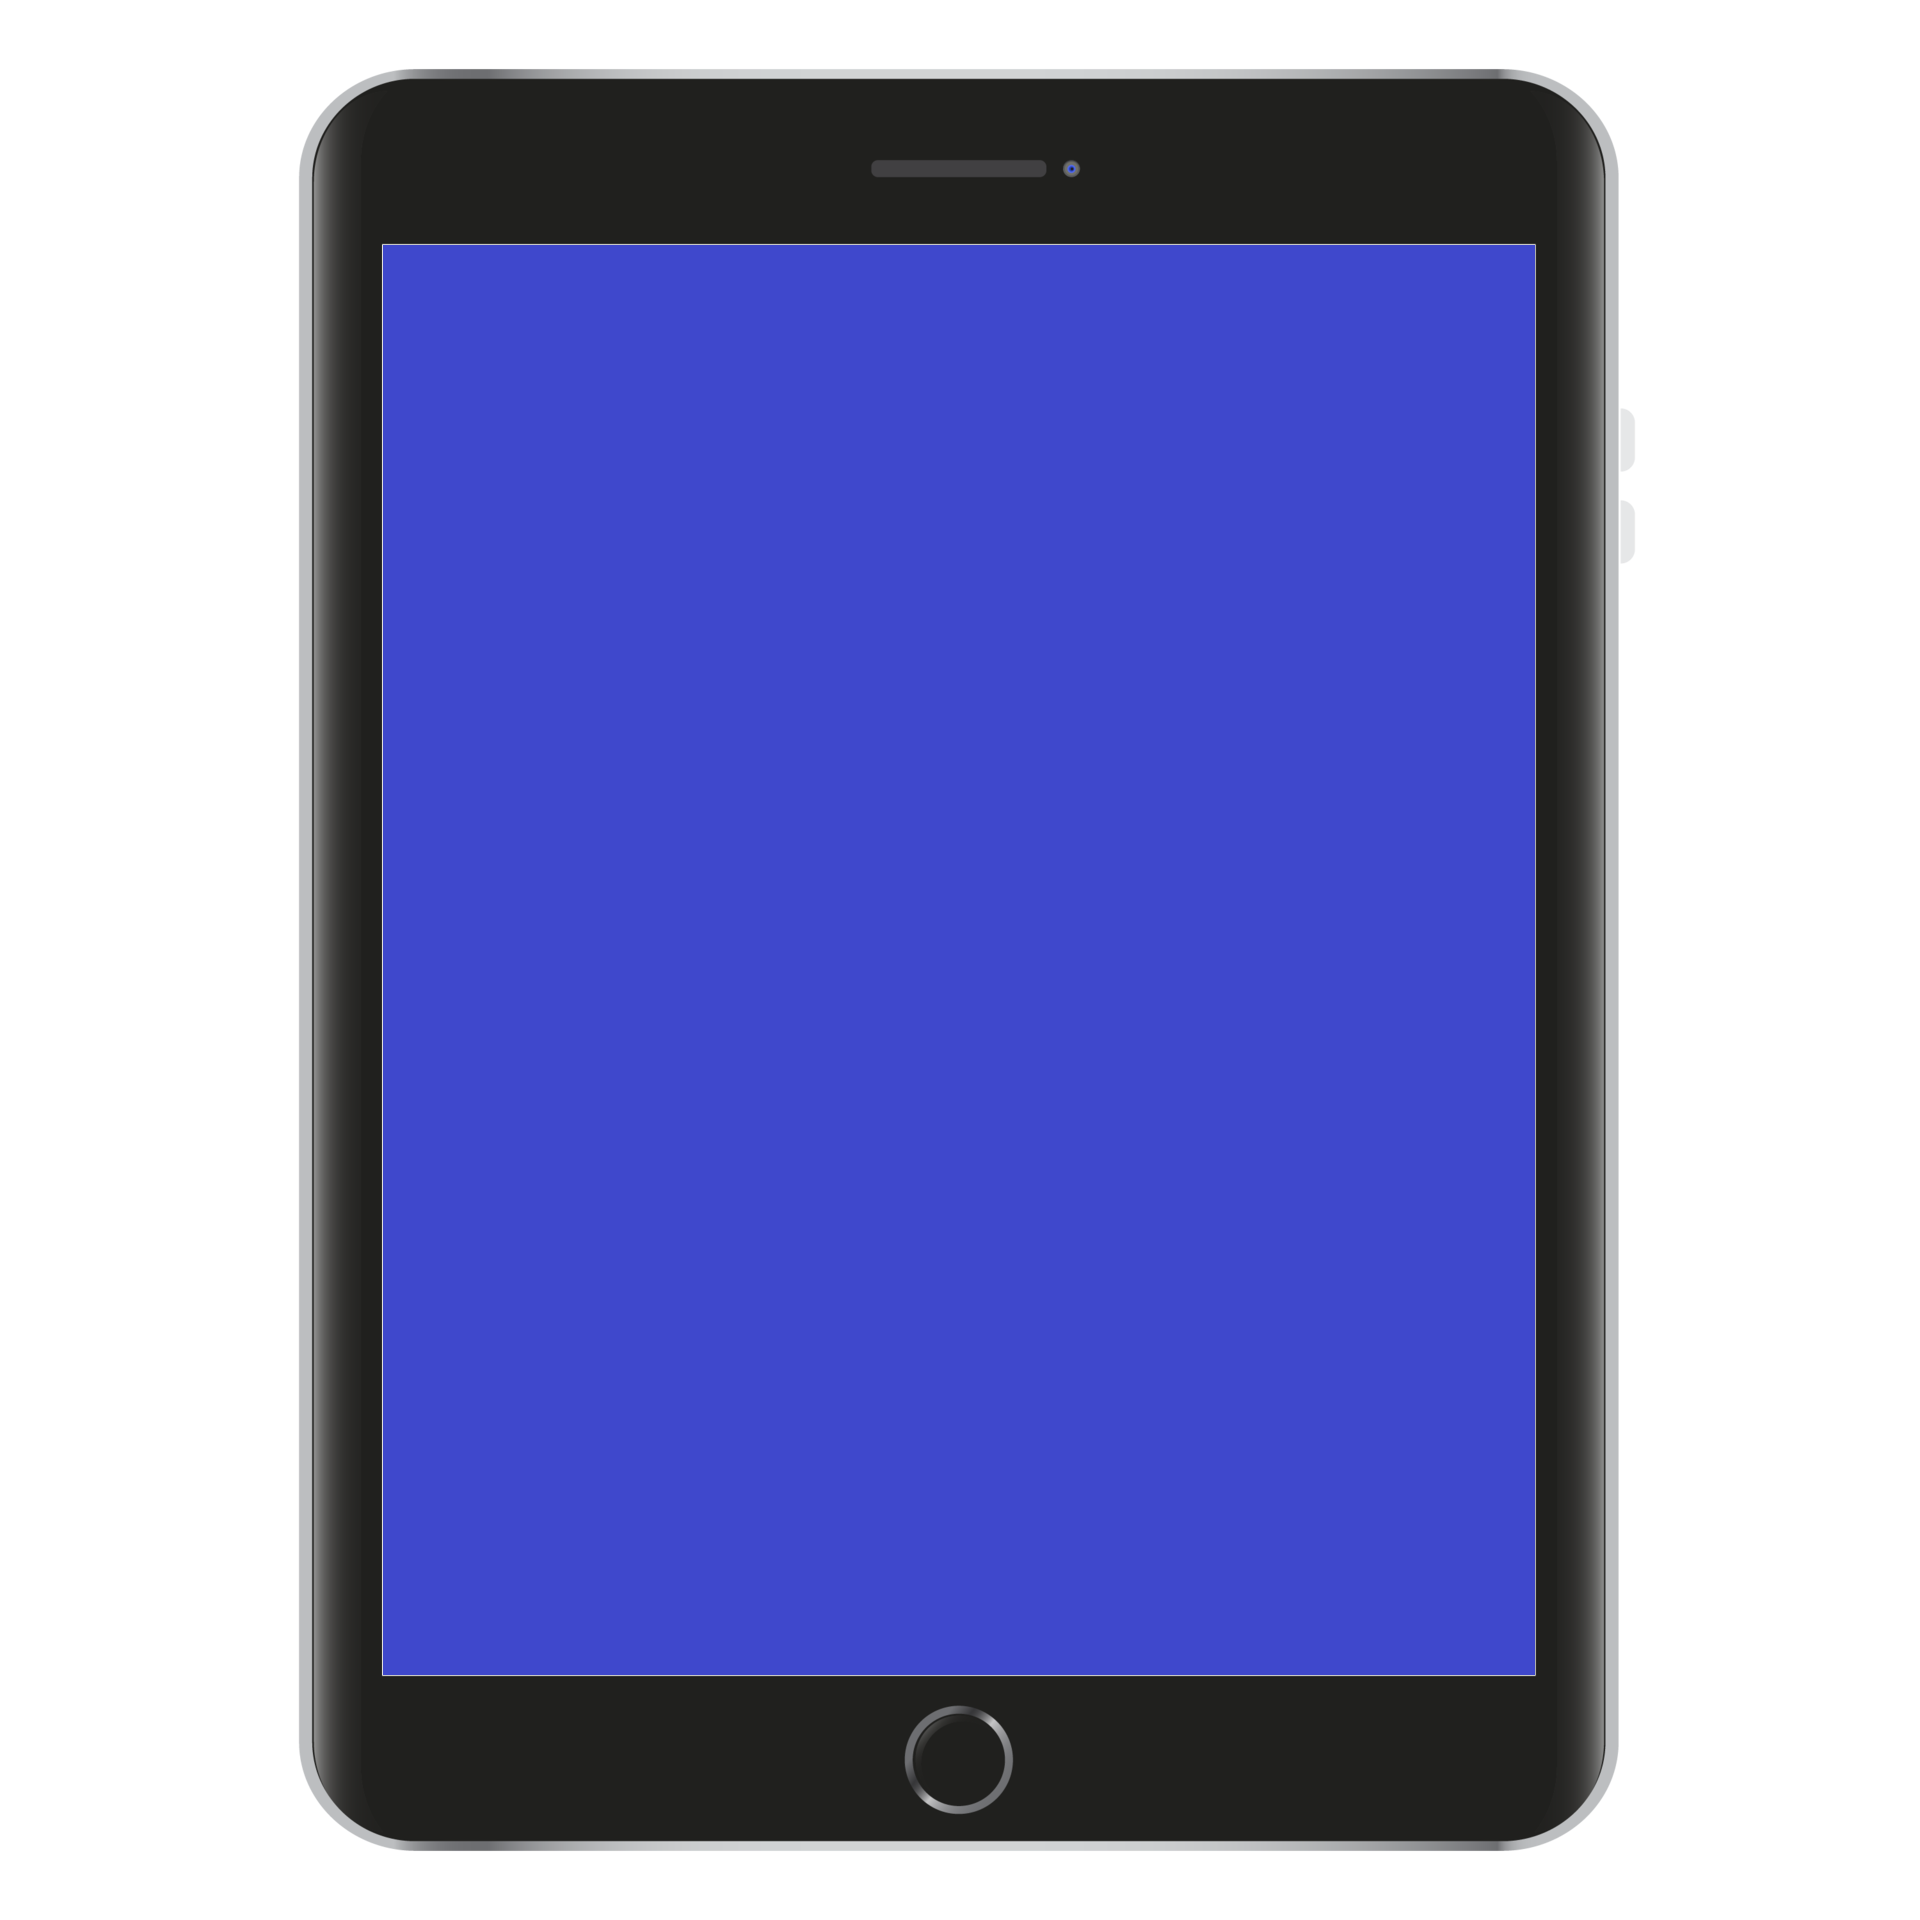
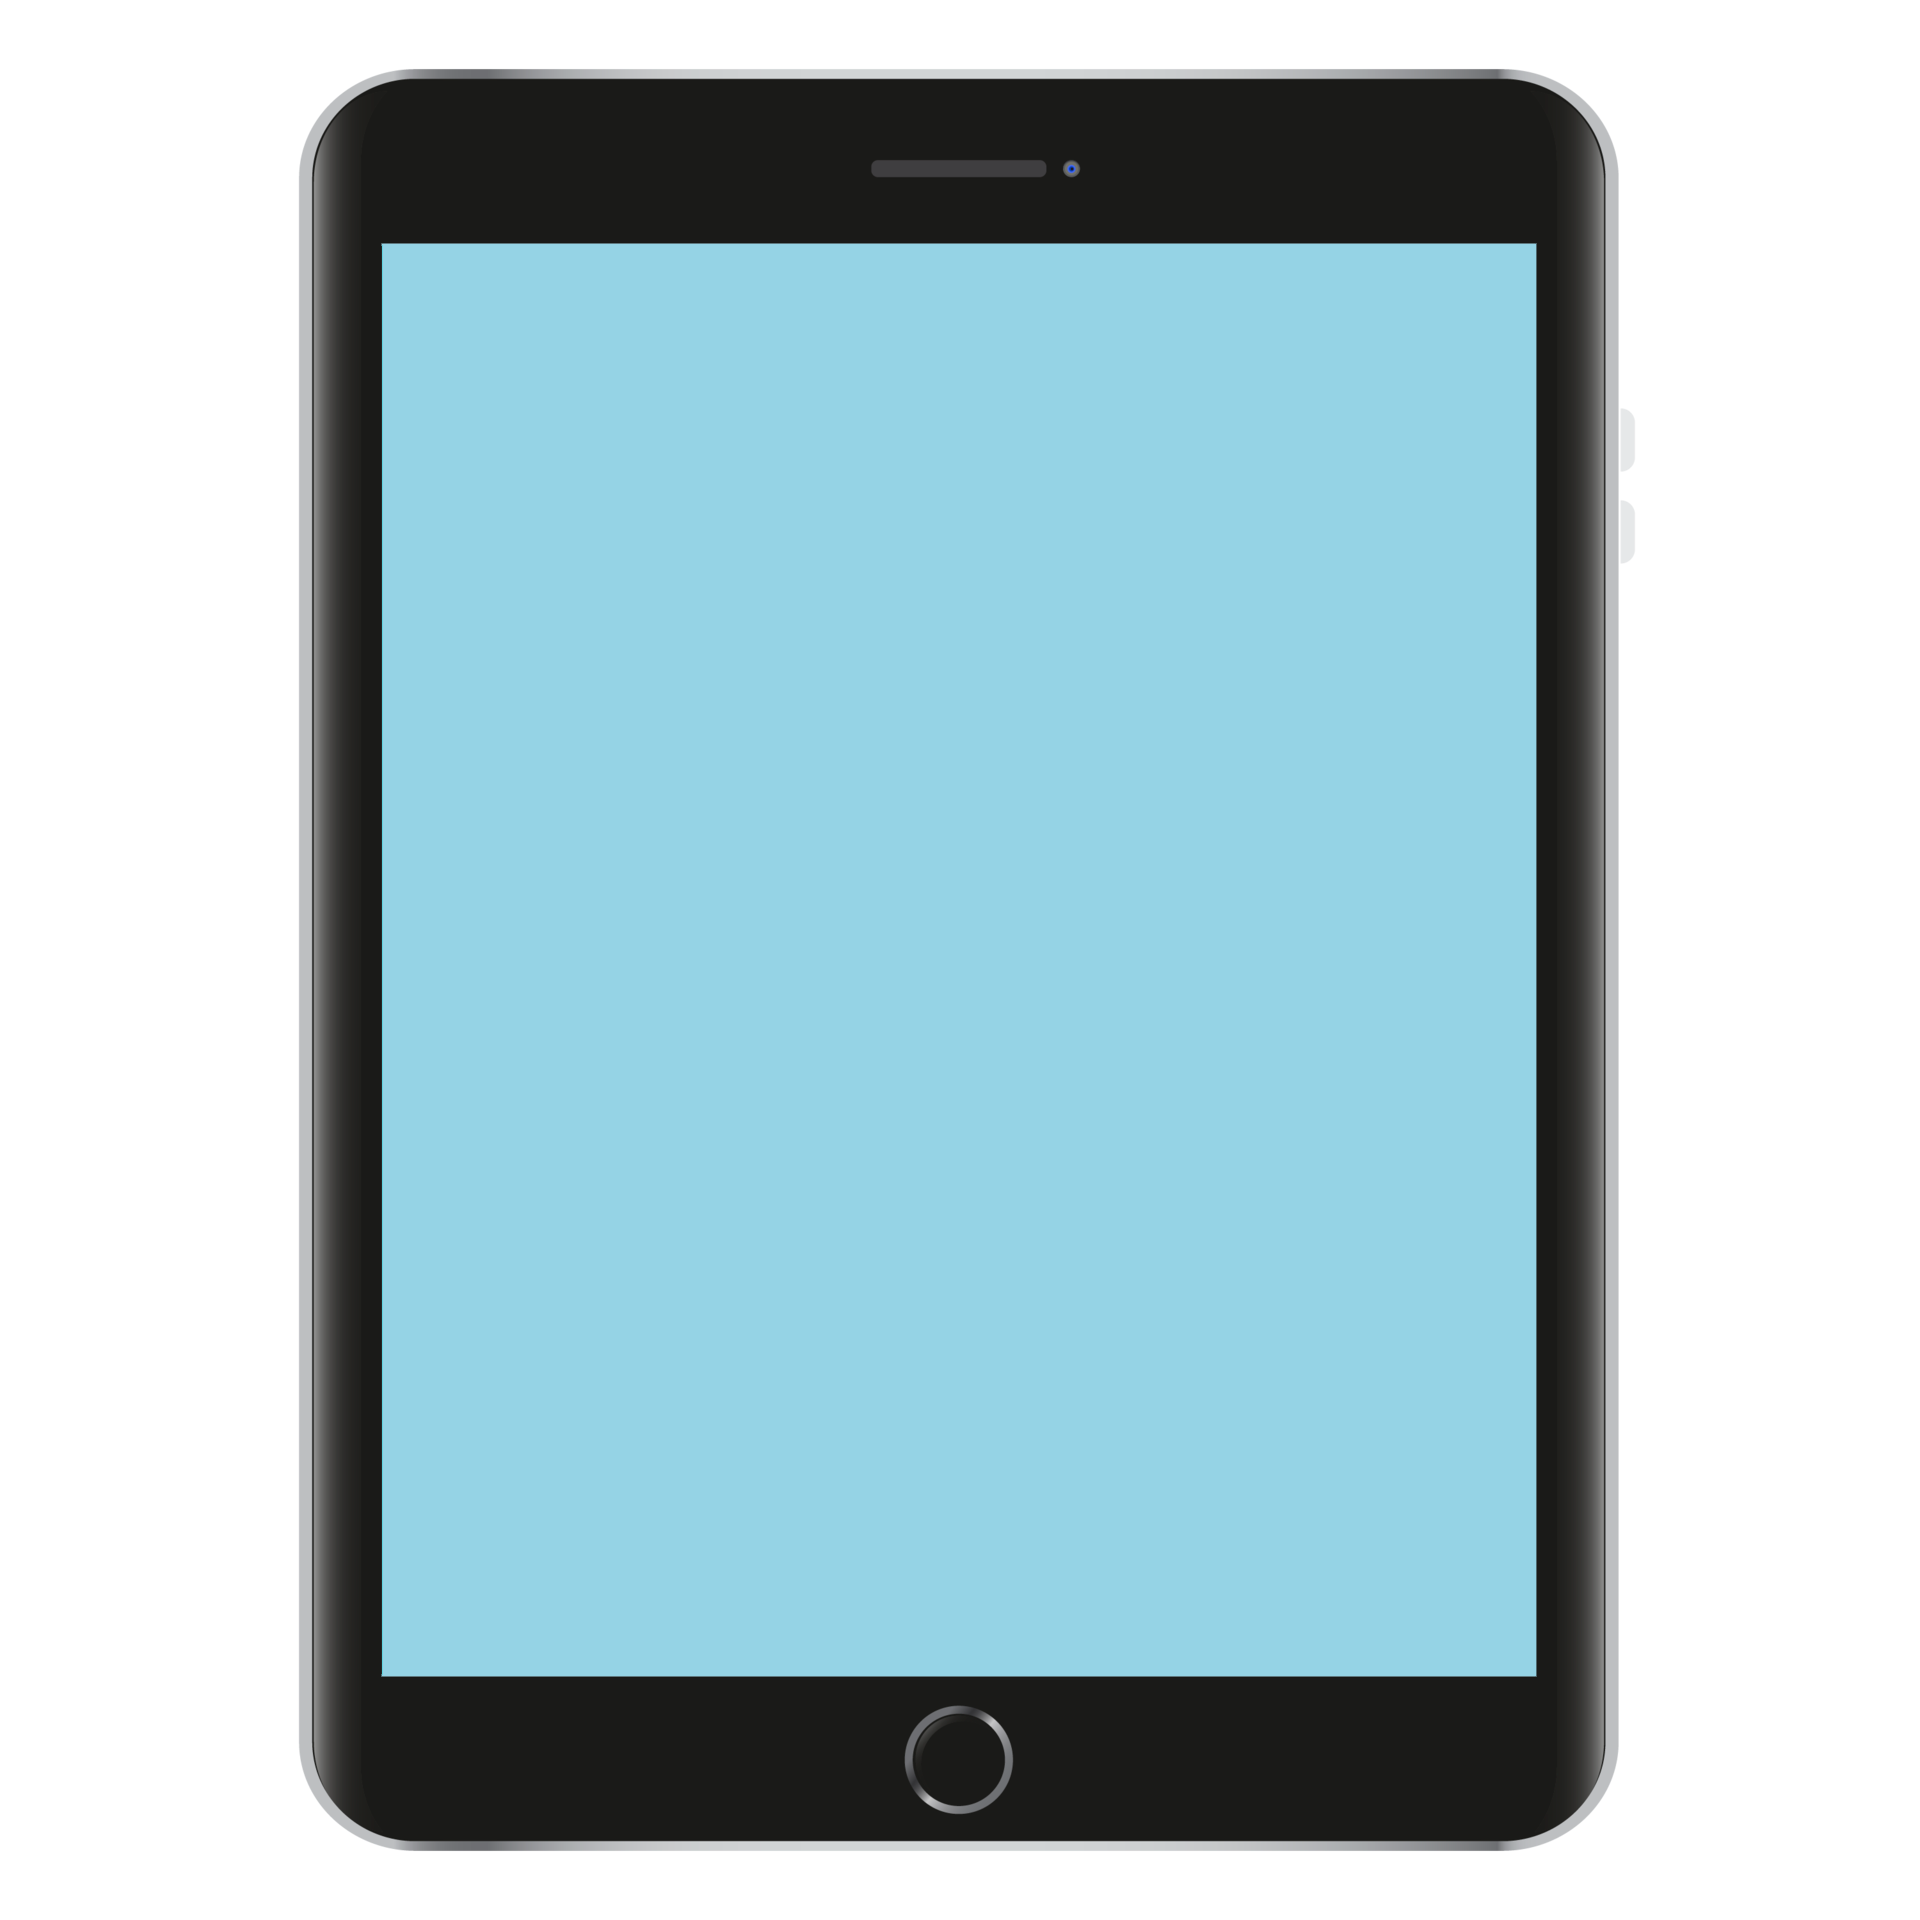
alterações

diff --git a/senai-finance/exercicio/stye.css b/senai-finance/exercicio/stye.css
@@ -1,10 +1,126 @@
+@import url('https://fonts.googleapis.com/css2?family=Seymour+One&display=swap');
+@import url('https://fonts.googleapis.com/css2?family=Lilita+One&family=Sedan+SC&family=Seymour+One&display=swap');
 *{
 box-sizing: 0;
 margin: 0;
 }
+:root{
+--branco: #FFFFFF;
+--midnightblue: #191970;
+--lightseagreen: #20B2AA;
+--teal: #008080;
+--preto: #000;
+}
 
 body{
-background-image: url(tablet1.png);
+background-image: url(tabletazul.png);
 background-repeat: no-repeat;
 background-size: 800px;
+background-position: center;
+background-position-y: 50px ;
+}
+
+/*INDEX*/
+.imagem {
+position: relative;
+display: flex;
+justify-content: center;
+margin: 30px;
+}
+
+.geral {
+    display: flex;
+ flex-direction: column;
+ align-items: center;
+ row-gap: 40px;
+}
+
+h1 {
+align-items: center;
+    display: flex;
+    flex-direction: column;
+font-family: "Seymour One", cursive;
+font-size: 23px;
+}
+
+.tudo {
+padding: 200px;
+}
+
+.subtexto {
+font-size: 13px;
+font-family: "Sedan SC", cursive;
+}
+
+.botao {
+background-color: var(--teal);
+color: var(--branco);
+width: 200px;
+height: 40px;
+cursor: pointer;
+border: outset 5px var(--lightseagreen);
+box-shadow: 3px 2px 4px 3px var(--preto);
+transition: 0.5s ease;
+animation: pulse 2s infinite;
+}
+
+@keyframes pulse{
+0% {
+transform: scale(1);
+}
+50% {
+transform: scale(1.1);
+}
+100%{
+transform: scale(1.3);
+}
+}
+.botao:hover{
+animation: none;
+}
+
+a {
+text-decoration: none;
+font-size: 20px;
+font-family: "Sedan SC", cursive;
+color: var(--branco);
+}
+
+
+/*LOGIN*/
+.geral-label{
+display: flex;
+flex-direction: column;
+row-gap: 20px;
+}
+
+.credenciais{
+display: flex;
+flex-direction: column;
+font-size: 25px;
+}
+
+.label{
+text-align: center;
+padding: 10px;
+font-weight:bolder
+}
+
+.caixa {
+height: 30px;
+font-size: 15px;
+border: outset 3px var(--lightseagreen);
+font-family: "Sedan SC", cursive;
+box-shadow: 2px 1px 2px 3px var(--preto);
+}
+
+.link {
+font-size: 15px;
+color: var(--preto);
+font-weight: bolder;
+text-align: center;
+}
+
+.tudo1 {
+padding: 150px;
 }

diff --git a/senai-finance/exercicio/login.html b/senai-finance/exercicio/login.html
@@ -1,49 +1,46 @@
 <!DOCTYPE html>
-<html lang="pt-BR">
+<html lang="en">
 <head>
     <meta charset="UTF-8">
     <meta name="viewport" content="width=device-width, initial-scale=1.0">
-    <title>REGISTRO</title>
+    <title>Login | registrar-se</title>
+    <link rel="stylesheet" href="stye.css">
 </head>
 <body>
-    
-    <h1>REGISTRO | LOGIN</h1>
+
+
+
+<div class="tudo1">
+
+<div class="imagem">
+    <img src="icons8-usuário-90.png">
+</div>
+
+  
+
+    <div class="geral">
+
 
     <form>
+        <div class="geral-label">
 
-            <div>
-                <div><label>Email:</label></div>
-                <div> <input type="email" placeholder="informe seu email"></div>
-                <div><label>Senha:</label></div>
-                <div><input type="password" placeholder="informe sua senha"></div>
-            </div> 
-
-            <div>
-                <button type="button" onclick="alert(teste)">recuperar senha</button>
+            <div class="credenciais">
+                <label class="label" >Email</label>
+                <input class="caixa" type="email" placeholder="Informe seu Email">
             </div>
 
-            <div>
-                <button>Entrar</button>
+            <div class="credenciais">
+                <label class="label" >Senha</label>
+             <input class="caixa" type="password" placeholder="Informe sua senha">
             </div>
+            <a class="link" href="">Esqueceu sua senha?</a>
 
-            <div>
-                Registrar
-            </div>
+        </div>
+     </form>
 
-    </form>
-
-
-
-
-
-
-
-
-
-
-
-
-
-
+        <div class="div-botao"><a href="login.html"><button class="botao" type="button">LOGIN</a></div>
+        <div class="div-botao"><a href=""><button class="botao" type="button">REGISTRAR</a></div>
+    </div>
+</div>
 </body>
 </html>

diff --git a/senai-finance/exercicio/index.html b/senai-finance/exercicio/index.html
@@ -8,57 +8,25 @@
 </head>
 <body>
 
-    <div class="imagem">
-    <img src="finances.png">
+
+
+<div class="tudo">
+
+<div class="imagem">
+    <img src="logomarca-oficial-SENAI.jpg">
 </div>
 
-    <h1>Bem-vindo(a) ao SENAI express</h1>
+    <h1>Bem-vindo(a) ao SENAI app</h1>
 
-    <div>
+    <div class="geral">
 
         <div class="subtexto">
-            <h2>Nosso sistema financeiro não pode ser o melhor, mas temos qualidade</h2>
+            <h2>Trabalhando para fazer um futuro melhor</h2>
         </div>
 
-        <div><button class="botao" type="button">LOGIN</button></div>
-        <div><button class="botao" type="button">Sobre</button></div>
-
-
-
-
-
-
-
-
-
-
-
-
-
-
-
-    
+        <div class="div-botao"><a href="login.html"><button class="botao" type="button">LOGIN</a></div>
+        <div class="div-botao"><a href=""><button class="botao" type="button">SOBRE</a></div>
     </div>
-
-
-
-
-
-
-
-
-
-
-
-
-
-
-
-
-
-
-
-
-    
+</div>
 </body>
 </html>

diff --git a/senai-finance/exercicio/sobre.html b/senai-finance/exercicio/sobre.html
@@ -1,0 +1,11 @@
+<!DOCTYPE html>
+<html lang="en">
+<head>
+    <meta charset="UTF-8">
+    <meta name="viewport" content="width=device-width, initial-scale=1.0">
+    <title>SOBRE</title>
+</head>
+<body>
+    
+</body>
+</html>
